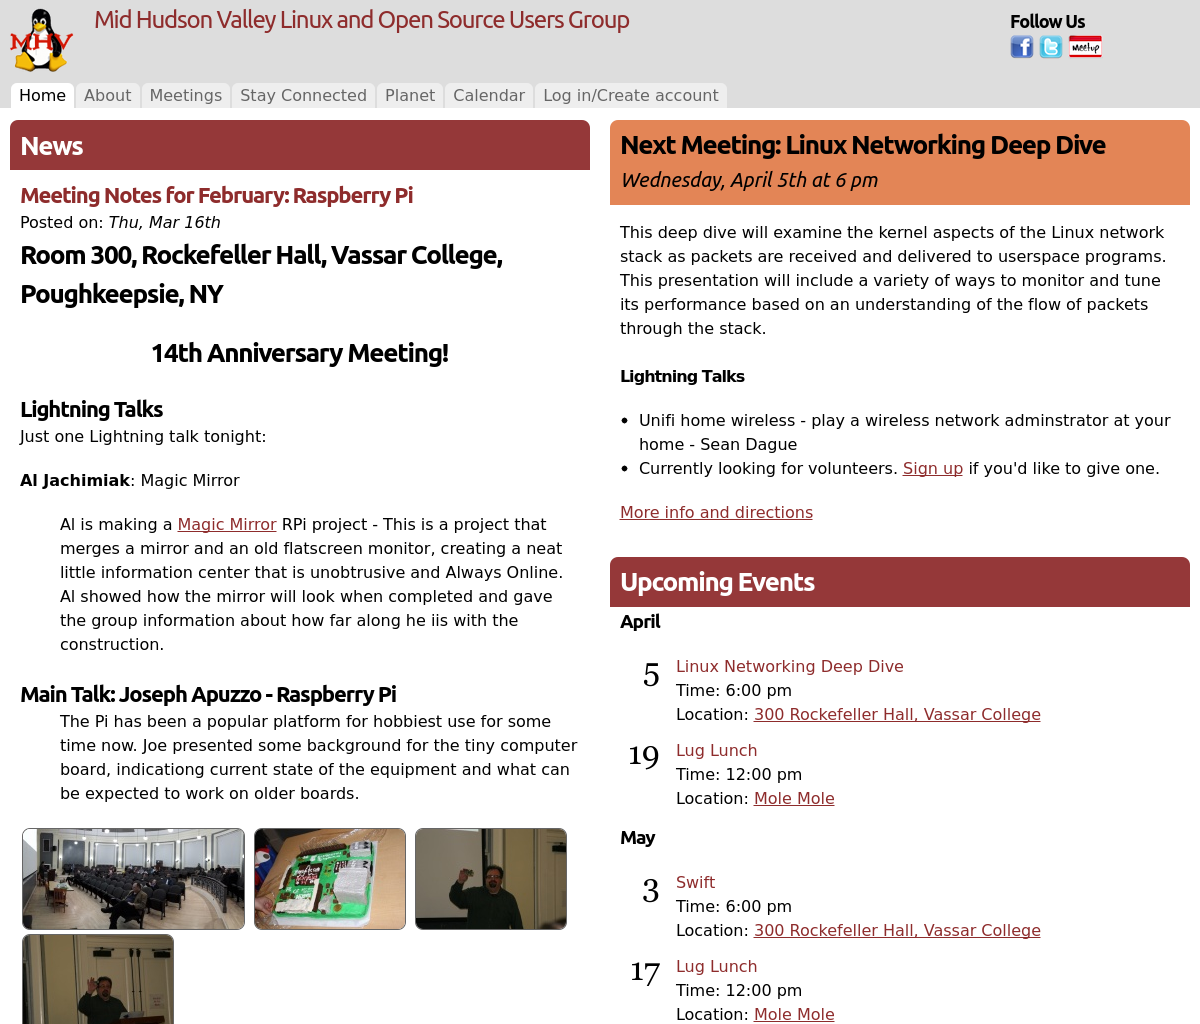
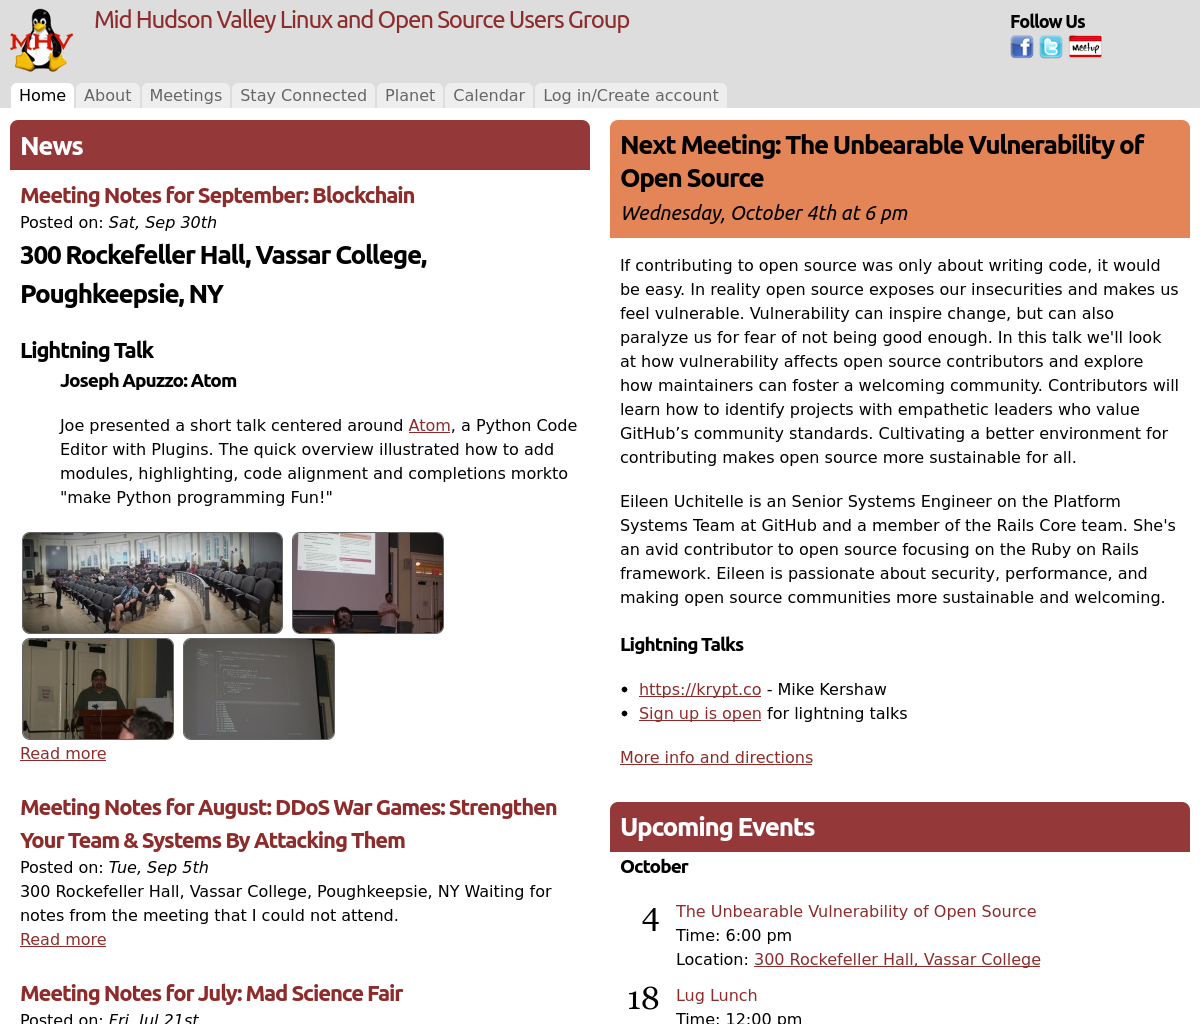
update for Oct

Changed region(s): [[0.0, 0.125, 1.0, 1.0], [0.0308, 0.1875, 0.4317, 0.2812]]

diff --git a/index.html b/index.html
@@ -94,8 +94,6 @@
         <section>
           <h3>Upcoming Meetings</h3>
           <dl>
-            <dt>September</dt>
-            <dd>Blockchain</dd>
             <dt>October</dt>
             <dd>Data Wrangling with R</dd>
             <dt>November</dt>
